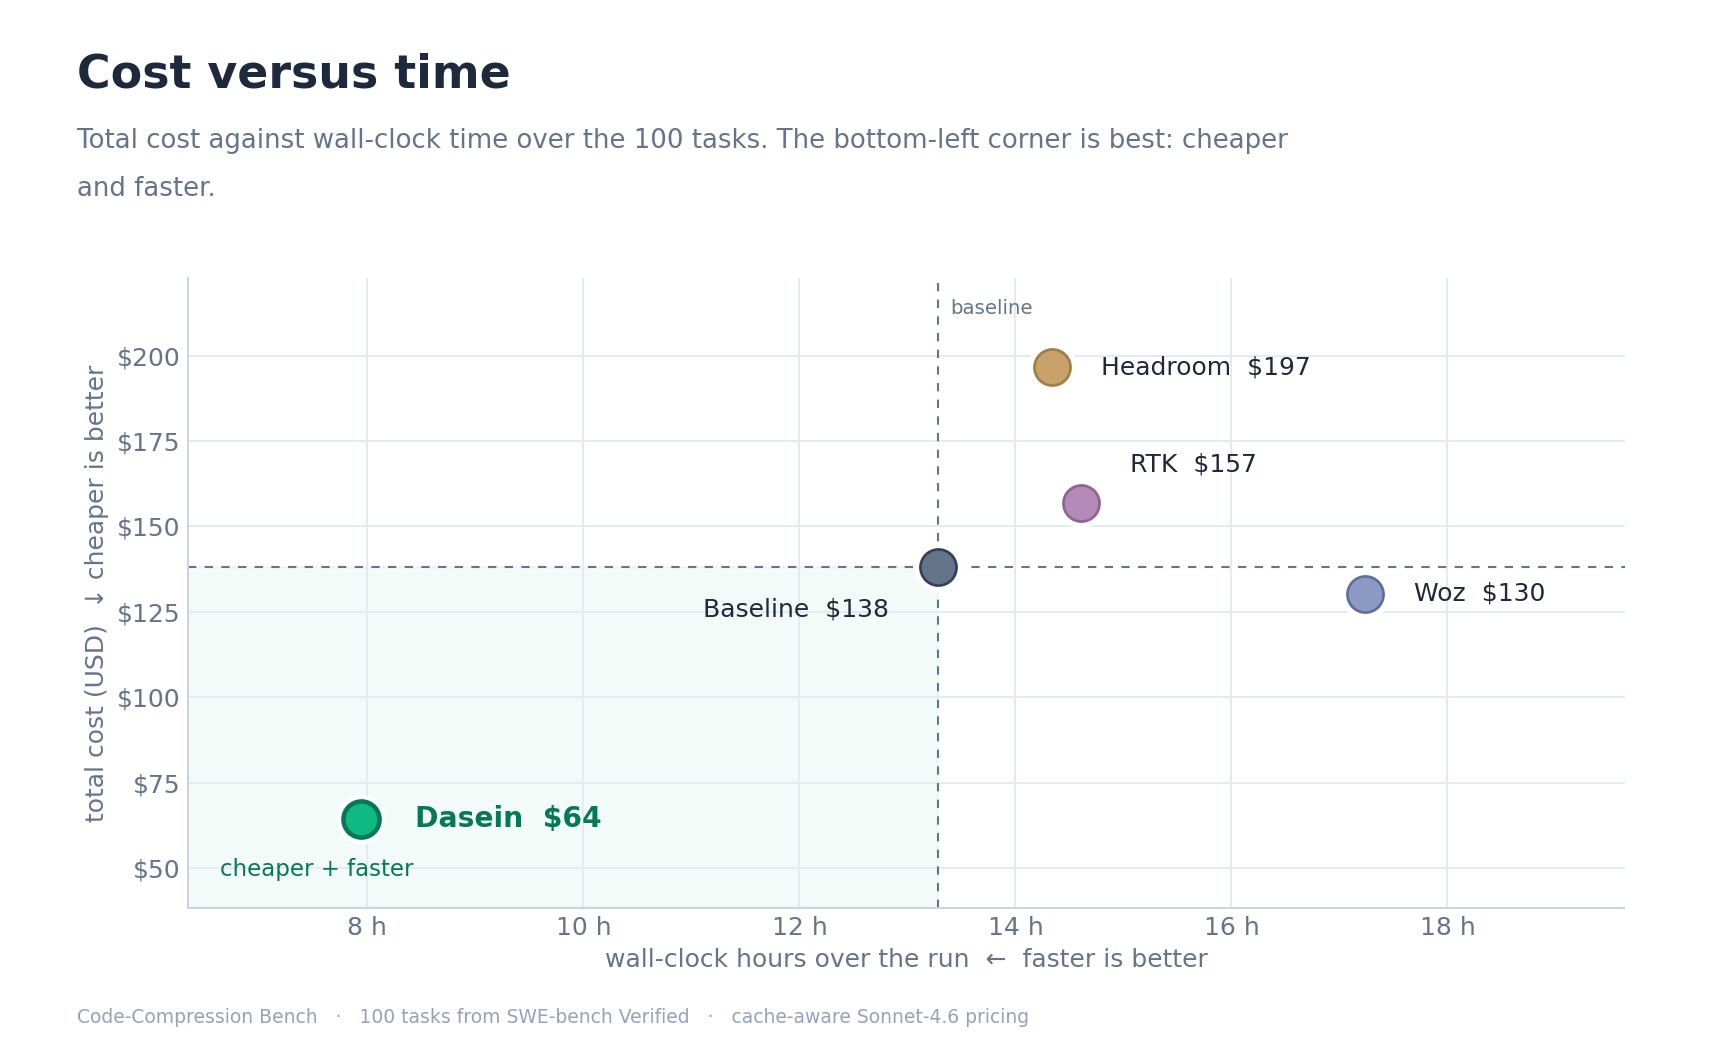
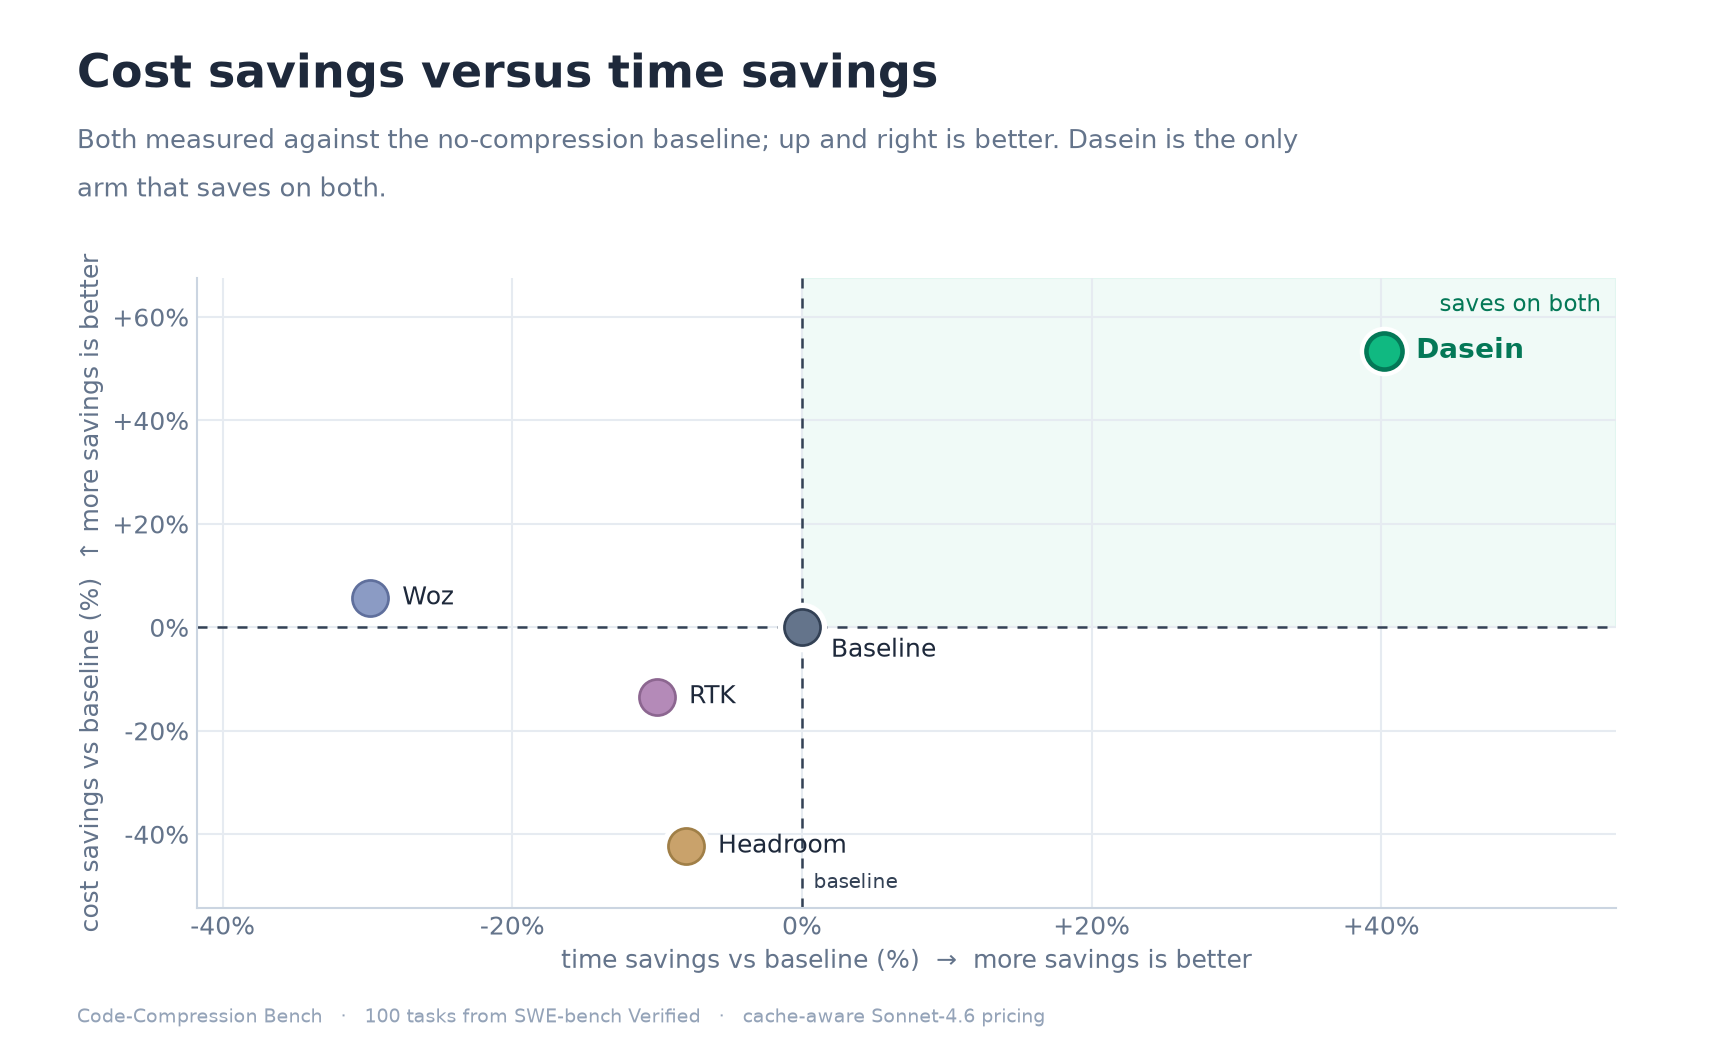
Reframe the cost-vs-time chart as savings (top-right is best)
Plot cost savings against time savings, both vs the no-compression baseline, so
the optimal corner is top-right and matches the savings-vs-solve-rate chart.
Dasein is the only arm in the top-right quadrant (saves on both cost and time);
updates figure 10 and the interactive dashboard scatter.

diff --git a/results/2026-06-24/dashboard.html b/results/2026-06-24/dashboard.html
@@ -124,7 +124,7 @@
   </div>
 
   <h2>Cost vs time</h2>
-  <p class="h2sub">Total cost against wall-clock time over the 100 tasks; the bottom-left corner is best — cheaper and faster. Hover any point.</p>
+  <p class="h2sub">Cost savings against time savings, both versus the no-compression baseline; the top-right corner is best — saving on both. Hover any point.</p>
   <div class="chartwrap">
     <div style="position:relative;width:100%;height:380px">
       <canvas id="scatter2" role="img" aria-label="Scatter of total cost versus wall-clock time for each arm"></canvas>
@@ -260,25 +260,25 @@ new Chart(document.getElementById("scatter"),{
 
 /* ---- cost vs time scatter ---- */
 const scatterLabels2={id:"slab2",afterDatasetsDraw(c){const{ctx}=c;ctx.save();ctx.textBaseline="middle";
-  const off={dasein:[14,2,"left"],A0:[12,15,"left"],rtk:[12,-3,"left"],headroom:[12,0,"left"],woz:[12,0,"left"]};
-  c.data.datasets.forEach((ds,i)=>{const p=c.getDatasetMeta(i).data[0];if(!p)return;const k=ORDER[i];const o=off[k]||[12,0,"left"];
+  const off={dasein:[-14,2,"right"],A0:[12,14,"left"],rtk:[13,0,"left"],headroom:[13,0,"left"],woz:[13,0,"left"]};
+  c.data.datasets.forEach((ds,i)=>{const p=c.getDatasetMeta(i).data[0];if(!p)return;const k=ORDER[i];const o=off[k]||[13,0,"left"];
   ctx.textAlign=o[2];ctx.fillStyle=k==="dasein"?"#047857":"#334155";ctx.font=(k==="dasein"?"700 ":"500 ")+"12px -apple-system,Segoe UI,sans-serif";
   ctx.fillText(ds.label,p.x+o[0],p.y+o[1]);});ctx.restore();}};
 new Chart(document.getElementById("scatter2"),{
   type:"scatter",
   plugins:[scatterLabels2],
-  data:{datasets:ORDER.map(k=>({label:ARMS[k].label,data:[{x:ARMS[k].wall_h,y:ARMS[k].cost_total}],
+  data:{datasets:ORDER.map(k=>({label:ARMS[k].label,data:[{x:-ARMS[k].vs_a0_time_pct,y:-ARMS[k].vs_a0_cost_pct}],
     backgroundColor:ARMS[k].c,borderColor:ARMS[k].e,borderWidth:k==="dasein"?2.5:1.2,
     pointRadius:9,pointHoverRadius:12}))},
   options:{responsive:true,maintainAspectRatio:false,animation:false,
     layout:{padding:14},
     plugins:{legend:{display:false},
-      tooltip:{callbacks:{label:c=>`${c.dataset.label}: ${c.parsed.x.toFixed(1)} h · $${c.parsed.y.toFixed(0)}`}}},
+      tooltip:{callbacks:{label:c=>`${c.dataset.label}: ${c.parsed.x>=0?"+":""}${c.parsed.x.toFixed(0)}% time · ${c.parsed.y>=0?"+":""}${c.parsed.y.toFixed(0)}% cost vs baseline`}}},
     scales:{
-      x:{title:{display:true,text:"wall-clock hours  ←  faster is better",color:"#64748b"},
-         min:6,max:19.5,grid:{color:"#eef2f6"},ticks:{color:"#64748b",callback:v=>v+" h"}},
-      y:{title:{display:true,text:"total cost (USD)  ↓ cheaper is better",color:"#64748b"},
-         min:40,max:215,grid:{color:"#eef2f6"},ticks:{color:"#64748b",callback:v=>"$"+v}}}}
+      x:{title:{display:true,text:"time savings vs baseline (%)  →  more savings is better",color:"#64748b"},
+         min:-40,max:54,grid:{color:c=>c.tick&&c.tick.value===0?"#94a3b8":"#eef2f6"},ticks:{color:"#64748b",callback:v=>(v>0?"+":"")+v+"%"}},
+      y:{title:{display:true,text:"cost savings vs baseline (%)  ↑ more savings is better",color:"#64748b"},
+         min:-52,max:66,grid:{color:c=>c.tick&&c.tick.value===0?"#94a3b8":"#eef2f6"},ticks:{color:"#64748b",callback:v=>(v>0?"+":"")+v+"%"}}}}
 });
 </script>
 </body>

diff --git a/results/2026-06-24/build_figures.py b/results/2026-06-24/build_figures.py
@@ -271,46 +271,47 @@ def fig_cache():
 # ── 10. cost vs time scatter ────────────────────────────────────────────────
 def fig_cost_time():
     fig = plt.figure(figsize=(11.4, 7.0))
-    ax = fig.add_axes([0.11, 0.135, 0.84, 0.60])
-    pts = {a: (A[a]["wall_h_total"], A[a]["cost_total"]) for a in A}  # x = hours, y = $
+    ax = fig.add_axes([0.115, 0.135, 0.83, 0.60])
+    # x = time savings vs baseline (%), y = cost savings vs baseline (%); up + right is better
+    pts = {a: (-A[a]["vs_a0_time_pct"], -A[a]["vs_a0_cost_pct"]) for a in A}
     xs = [p[0] for p in pts.values()]; ys = [p[1] for p in pts.values()]
-    xlo, xhi = min(xs) - 1.6, max(xs) + 2.4
-    ylo, yhi = min(ys) - 26, max(ys) + 26
+    xlo, xhi = min(xs) - 12, max(xs) + 16
+    ylo, yhi = min(ys) - 12, max(ys) + 14
     ax.set_xlim(xlo, xhi); ax.set_ylim(ylo, yhi)
-    # best = bottom-left (cheaper + faster); shade that quadrant lightly off the baseline point
-    bx, by = pts["A0"]
-    ax.axhspan(ylo, by, xmin=0, xmax=(bx - xlo) / (xhi - xlo), color=HERO, alpha=0.05, zorder=0)
-    ax.axvline(bx, color=SLATE, ls=(0, (4, 4)), lw=1.0, zorder=1)
-    ax.axhline(by, color=SLATE, ls=(0, (4, 4)), lw=1.0, zorder=1)
-    ax.text(xlo + 0.3, ylo + 8, "cheaper + faster", color=HERO_DARK, fontsize=11, va="bottom", ha="left")
-    ax.text(bx + 0.12, yhi - 6, "baseline", color=SLATE, fontsize=9.5, va="top", ha="left")
+    # best = top-right (saves on both cost and time); shade that quadrant
+    ax.axhspan(0, yhi, xmin=(0 - xlo) / (xhi - xlo), xmax=1, color=HERO, alpha=0.06, zorder=0)
+    ax.axhline(0, color=SLATE_DK, ls=(0, (4, 4)), lw=1.2, zorder=1)
+    ax.axvline(0, color=SLATE_DK, ls=(0, (4, 4)), lw=1.2, zorder=1)
+    ax.text(xhi - 1, yhi - 3, "saves on both", ha="right", va="top", color=HERO_DARK, fontsize=11)
+    ax.text(0.8, ylo + 3, "baseline", ha="left", va="bottom", color=SLATE_DK, fontsize=9.5)
     for a, (x, y) in pts.items():
         ax.scatter([x], [y], s=520, color="white", edgecolor="white", zorder=4.4)
     for a, (x, y) in pts.items():
         big = a == "dasein"
         ax.scatter([x], [y], s=300, color=COL[a], edgecolor=EDGE[a],
                    linewidth=2.2 if big else 1.3, zorder=5)
-    place = {  # dx (hours), dy ($), ha, va
-        "dasein":   (0.5, 0, "left", "center"),
-        "A0":       (-0.45, -9, "right", "top"),
-        "rtk":      (0.45, 8, "left", "bottom"),
-        "headroom": (0.45, 0, "left", "center"),
-        "woz":      (0.45, 0, "left", "center"),
+    place = {  # dx (% time), dy (% cost), ha, va
+        "dasein":   (2.2, 0, "left", "center"),
+        "woz":      (2.2, 0, "left", "center"),
+        "A0":       (2.0, -2, "left", "top"),
+        "rtk":      (2.2, 0, "left", "center"),
+        "headroom": (2.2, 0, "left", "center"),
     }
     for a, (dx, dy, ha, va) in place.items():
         x, y = pts[a]; big = a == "dasein"
-        ax.text(x + dx, y + dy, f"{LABEL[a]}  ${y:.0f}", ha=ha, va=va,
+        ax.text(x + dx, y + dy, LABEL[a], ha=ha, va=va,
                 fontsize=13.5 if big else 12, fontweight="bold" if big else "normal",
                 color=HERO_DARK if big else INK, zorder=6)
-    ax.set_xlabel("wall-clock hours over the run  ←  faster is better", fontsize=12, color=INK_SOFT)
-    ax.set_ylabel("total cost (USD)  ↓ cheaper is better", fontsize=12, color=INK_SOFT)
+    ax.set_xlabel("time savings vs baseline (%)  →  more savings is better", fontsize=12, color=INK_SOFT)
+    ax.set_ylabel("cost savings vs baseline (%)  ↑ more savings is better", fontsize=12, color=INK_SOFT)
     from matplotlib.ticker import FuncFormatter
-    ax.xaxis.set_major_formatter(FuncFormatter(lambda v, _: f"{v:.0f} h"))
-    ax.yaxis.set_major_formatter(FuncFormatter(lambda v, _: f"${v:.0f}"))
+    pf = lambda v, _: ("0%" if abs(v) < 0.5 else f"{v:+.0f}%")
+    ax.xaxis.set_major_formatter(FuncFormatter(pf))
+    ax.yaxis.set_major_formatter(FuncFormatter(pf))
     ax.grid(True, color=GRID, linewidth=1, zorder=0); ax.set_axisbelow(True)
     frame(ax); ax.spines["left"].set_visible(True); ax.spines["left"].set_color("#cbd5e1")
-    titleblock(fig, "Cost versus time",
-               "Total cost against wall-clock time over the 100 tasks. The bottom-left corner is best: cheaper and faster.")
+    titleblock(fig, "Cost savings versus time savings",
+               "Both measured against the no-compression baseline; up and right is better. Dasein is the only arm that saves on both.")
     footer(fig)
     fig.savefig(os.path.join(OUT, "10_cost_vs_time.png")); plt.close(fig)
 

diff --git a/README.md b/README.md
@@ -85,12 +85,12 @@ and had the highest mean per-call latency (13.0 s versus the baseline's 9.0 s).
 ## Cost and time together
 
 <p align="center">
-  <img src="results/2026-06-24/figures/10_cost_vs_time.png" width="760" alt="Total cost versus wall-clock time; Dasein alone is below the baseline on both axes (cheaper and faster).">
+  <img src="results/2026-06-24/figures/10_cost_vs_time.png" width="760" alt="Cost savings versus time savings vs the baseline; Dasein alone sits in the top-right, saving on both.">
 </p>
 
-Plotting total cost against wall-clock time places the best arm in the bottom-left corner — cheaper and
-faster. Dasein is the only arm there: it is below the baseline on both axes at the same time. Every other
-arm is slower than the baseline, more expensive, or both.
+Plotting cost savings against time savings — both versus the baseline — places the best arm in the top-right
+corner, saving on both. Dasein is the only arm there: it cuts cost 54% and wall-clock time 40% at the same
+time. Every other arm saves on at most one axis, and RTK and Headroom lose on both.
 
 ## Where the cost comes from
 